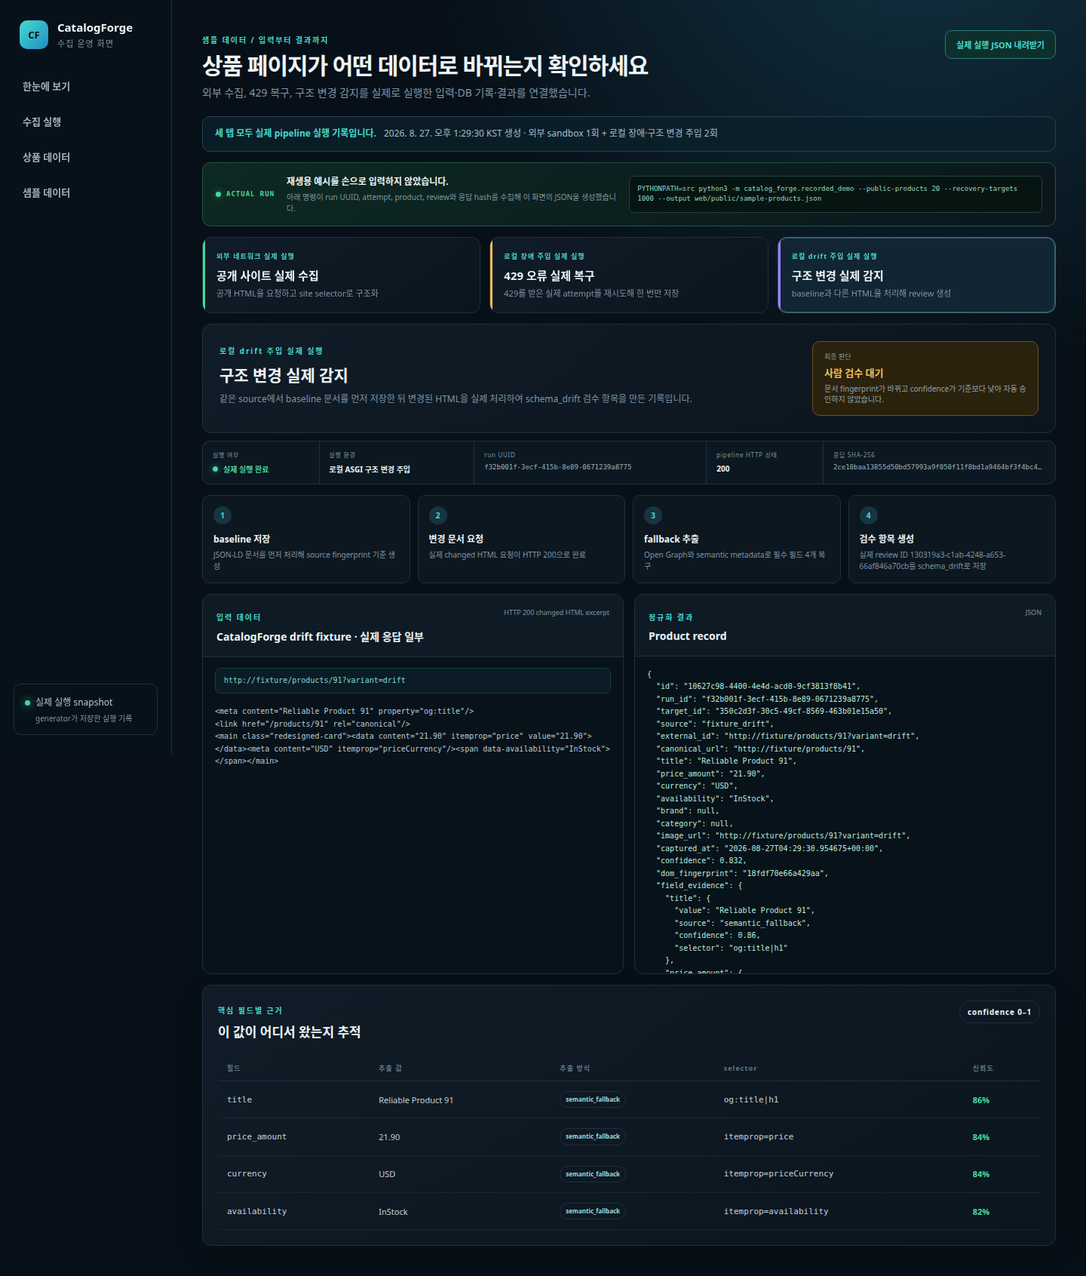
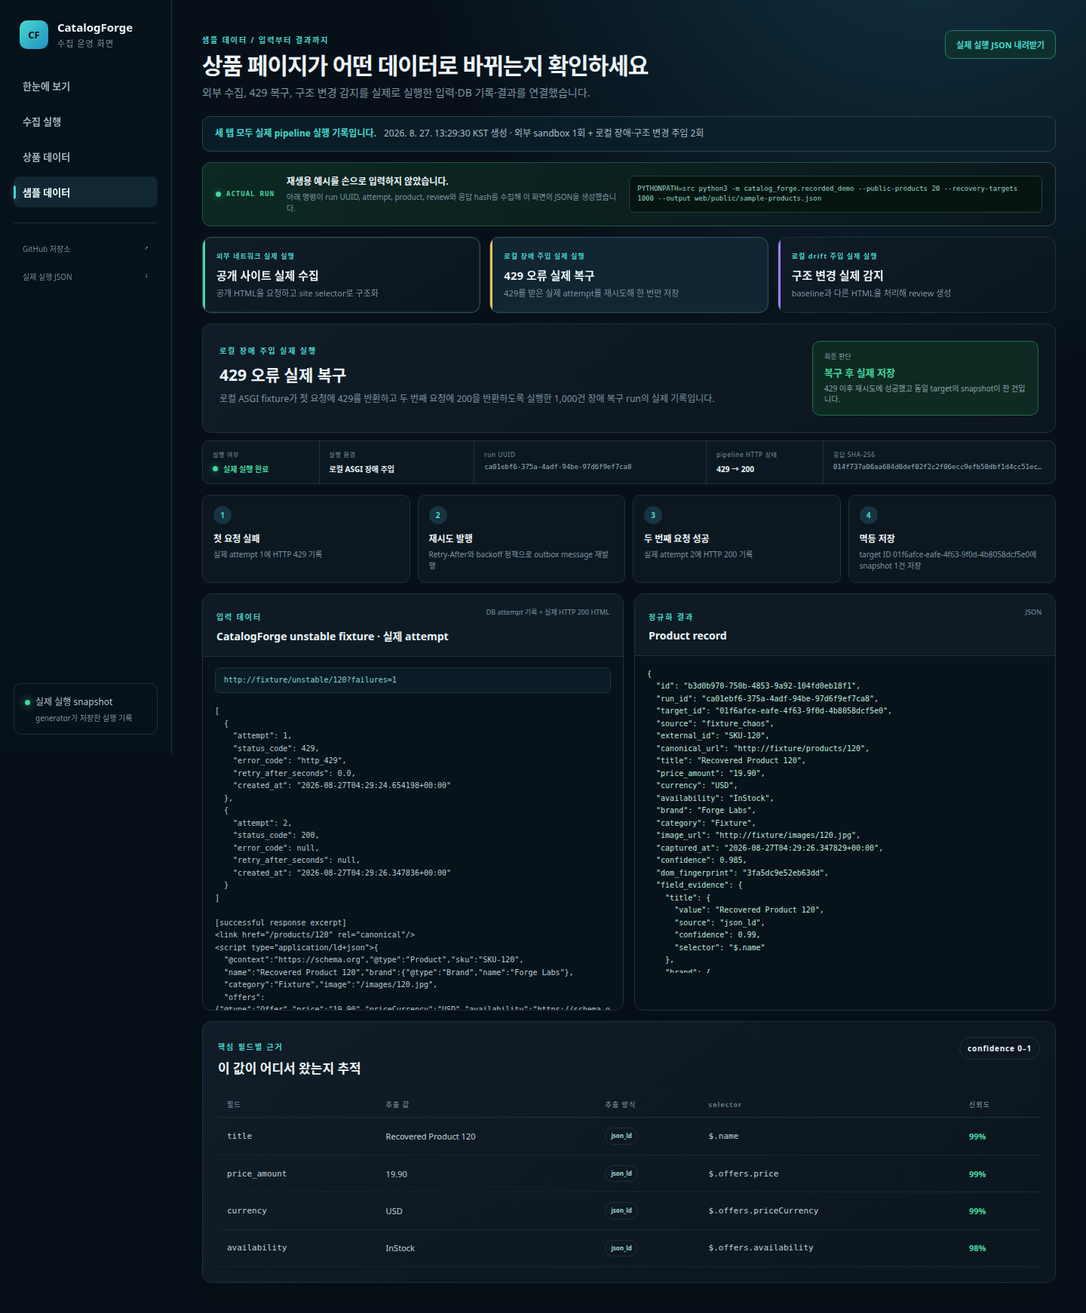
style: 포트폴리오 데모 최종 폴리싱

diff --git a/web/app/globals.css b/web/app/globals.css
@@ -6,3 +6,5 @@
 .download-link{display:inline-flex;align-items:center;justify-content:center;border:1px solid #287b73;border-radius:9px;padding:10px 14px;background:#0e302d;color:var(--cyan);font-size:11px;font-weight:800;white-space:nowrap}.download-link:hover{background:#14413d}.sample-tabs{display:grid;grid-template-columns:repeat(3,1fr);gap:12px;margin-bottom:14px}.sample-tab{position:relative;overflow:hidden;border:1px solid var(--line);border-radius:12px;padding:18px 18px 17px;background:linear-gradient(145deg,#101c27,#0b151e);color:var(--text);font:inherit;text-align:left;cursor:pointer}.sample-tab:before{content:"";position:absolute;inset:0 auto 0 0;width:3px;background:#41525f}.sample-tab.good:before{background:var(--green)}.sample-tab.warn:before{background:var(--amber)}.sample-tab.review:before{background:var(--violet)}.sample-tab:hover,.sample-tab.active{border-color:#3e6575;background:#122532}.sample-tab.active{box-shadow:0 0 0 1px #315d6d inset}.sample-tab span,.sample-tab strong,.sample-tab small{display:block}.sample-tab span{color:var(--cyan);font-size:9px;font-weight:800;letter-spacing:.12em}.sample-tab strong{margin:8px 0 6px;font-size:15px}.sample-tab small{color:var(--muted);font-size:11px;line-height:1.45}.sample-detail-head{display:flex;align-items:flex-start;justify-content:space-between;gap:28px;border:1px solid var(--line);border-radius:12px;padding:22px;background:linear-gradient(145deg,#101c27,#0b151e)}.sample-detail-head h2{margin:7px 0 8px;font-size:21px}.sample-detail-head p{max-width:760px;margin:0;color:var(--muted);font-size:12px;line-height:1.6}.decision{min-width:210px;max-width:300px;border:1px solid var(--line);border-radius:10px;padding:13px 15px}.decision span,.decision strong,.decision small{display:block}.decision span{color:var(--muted);font-size:9px}.decision strong{margin:5px 0;color:var(--green);font-size:13px}.decision small{color:#8fa3ae;font-size:10px;line-height:1.45}.decision.review{border-color:#6c5323;background:#2b220d}.decision.review strong{color:var(--amber)}.decision.stored{border-color:#236c53;background:#0d2b22}.sample-flow{display:grid;grid-template-columns:repeat(4,1fr);gap:10px;margin:14px 0}.sample-flow article{min-height:112px;border:1px solid var(--line);border-radius:10px;padding:14px;background:#0c1720}.sample-flow article>span{width:24px;height:24px;display:grid;place-items:center;border-radius:50%;background:#173442;color:var(--cyan);font-size:10px;font-weight:900}.sample-flow strong,.sample-flow small{display:block}.sample-flow strong{margin:10px 0 5px;font-size:12px}.sample-flow small{color:var(--muted);font-size:10px;line-height:1.5}.sample-grid{display:grid;grid-template-columns:1fr 1fr;gap:14px}.sample-code-panel{min-width:0;border:1px solid var(--line);border-radius:12px;overflow:hidden;background:#08121a}.code-panel-head{display:flex;align-items:flex-start;justify-content:space-between;gap:14px;padding:17px 18px;border-bottom:1px solid var(--line);background:#0e1b25}.code-panel-head h3{margin:6px 0 0;font-size:14px}.code-panel-head>span{color:var(--muted);font-size:9px}.sample-url{display:block;margin:14px 16px 0;padding:9px 11px;border:1px solid #1d3745;border-radius:7px;background:#0b1c26;color:#83d8d2;font-size:10px;line-height:1.45;overflow-wrap:anywhere}.sample-code-panel pre{min-height:320px;max-height:420px;margin:0;padding:16px;overflow:auto;color:#b8cad3;font:10px/1.65 ui-monospace,SFMono-Regular,Menlo,monospace;white-space:pre-wrap;overflow-wrap:anywhere}.sample-code-panel.output pre{color:#bcebd9}.evidence-panel{margin-top:14px}.evidence-method{display:inline-block;max-width:none;color:#9edbd6;text-align:left}.evidence-panel td strong{color:var(--green)}@media(max-width:900px){.sample-grid{grid-template-columns:1fr}.sample-code-panel pre{min-height:220px}}@media(max-width:680px){.sidebar nav a{padding:9px 5px;font-size:9px}.download-link{margin-top:18px}.sample-tabs{grid-template-columns:1fr}.sample-detail-head{display:block}.decision{max-width:none;margin-top:16px}.sample-flow{grid-template-columns:1fr 1fr}.sample-code-panel pre{min-height:180px;max-height:340px}}@media(max-width:420px){.sample-flow{grid-template-columns:1fr}}
 
 .product-card footer .fingerprint-label{margin-top:10px}.product-card code{display:block;overflow-wrap:anywhere}.run-title{font-size:14px!important;overflow-wrap:anywhere}.provenance{display:grid;grid-template-columns:auto minmax(240px,1fr) minmax(300px,1.25fr);align-items:center;gap:16px;margin-bottom:14px;padding:15px 17px;border:1px solid #245346;border-radius:11px;background:linear-gradient(135deg,#0d2922,#0a171d)}.actual-badge{display:inline-flex;align-items:center;gap:7px;color:var(--green);font:800 9px ui-monospace,monospace;letter-spacing:.11em;white-space:nowrap}.actual-badge i,.execution-proof i{width:7px;height:7px;border-radius:50%;background:var(--green);box-shadow:0 0 10px #45d89d99}.provenance strong,.provenance small{display:block}.provenance strong{font-size:12px}.provenance small{margin-top:5px;color:var(--muted);font-size:10px;line-height:1.5}.provenance code{padding:10px;border:1px solid #24413c;border-radius:7px;background:#071512;color:#96d5c4;font-size:9px;line-height:1.5;overflow-wrap:anywhere}.execution-proof{display:grid;grid-template-columns:.75fr 1fr 1.5fr .75fr 1.5fr;gap:1px;margin-top:10px;border:1px solid var(--line);border-radius:10px;overflow:hidden;background:var(--line)}.execution-proof>div{min-width:0;padding:12px 13px;background:#0b1821}.execution-proof span,.execution-proof strong,.execution-proof code{display:block}.execution-proof span{margin-bottom:6px;color:var(--muted);font-size:8px;letter-spacing:.09em}.execution-proof strong{font-size:10px}.execution-proof div:first-child strong{display:flex;align-items:center;gap:7px;color:var(--green)}.execution-proof code{color:#9bb0bb;font-size:9px;white-space:nowrap;overflow:hidden;text-overflow:ellipsis}@media(max-width:1050px){.provenance{grid-template-columns:auto 1fr}.provenance code{grid-column:1/-1}.execution-proof{grid-template-columns:repeat(2,1fr)}.execution-proof>div:last-child{grid-column:1/-1}}@media(max-width:680px){.provenance{grid-template-columns:1fr}.provenance code{grid-column:auto}.execution-proof{grid-template-columns:1fr}.execution-proof>div:last-child{grid-column:auto}}
+
+html{scroll-behavior:smooth}body{-webkit-font-smoothing:antialiased;text-rendering:optimizeLegibility}::selection{background:#46d9ce35;color:#fff}a,button{transition:border-color .18s ease,background-color .18s ease,color .18s ease,transform .18s ease}a:focus-visible,button:focus-visible{outline:2px solid var(--cyan);outline-offset:3px}.sidebar nav a{position:relative;display:flex;align-items:center}.sidebar nav a:after{content:"";position:absolute;left:0;width:3px;height:18px;border-radius:0 3px 3px 0;background:transparent}.sidebar nav a.active{background:#112733;color:#eefcfc}.sidebar nav a.active:after{background:var(--cyan);box-shadow:0 0 12px #46d9ce66}.sidebar-resources{display:grid;gap:6px;margin-top:20px;padding-top:18px;border-top:1px solid var(--line)}.sidebar-resources a{display:flex;justify-content:space-between;padding:8px 12px;color:#718b99;font-size:10px}.sidebar-resources a:hover{color:var(--cyan)}.sidebar-resources span{font-family:ui-monospace,monospace}.mode.recorded{color:var(--green);border-color:#236c53;background:#0d2b22}.top-actions{display:flex;align-items:center;justify-content:flex-end;gap:8px;flex-wrap:wrap}.action-link{display:inline-flex;align-items:center;gap:8px;padding:8px 11px;border:1px solid #285064;border-radius:999px;background:#0b1d28;color:#9ec4d3;font-size:10px;font-weight:800;white-space:nowrap}.action-link:hover{border-color:#3a8594;color:var(--cyan);transform:translateY(-1px)}.action-link span{color:var(--cyan)}.demo-note a{margin-left:auto;color:var(--cyan);font-size:10px;font-weight:800;white-space:nowrap}.demo-note a:hover{color:#8af3eb}.metric,.panel,.product-card,.sample-tab,.sample-detail-head{transition:border-color .18s ease,transform .18s ease,box-shadow .18s ease}.metric:hover,.panel:hover,.product-card:hover{border-color:#2a4656}.product-card:hover{transform:translateY(-2px);box-shadow:0 18px 48px #02090d66}.run-cell{max-width:190px;overflow:hidden;text-overflow:ellipsis;white-space:nowrap}.product-facts{display:grid;gap:8px;margin:18px 0 0;padding:12px 0;border-top:1px solid var(--line);border-bottom:1px solid var(--line)}.product-facts div{display:grid;grid-template-columns:75px minmax(0,1fr);gap:8px;align-items:center}.product-facts dt{color:var(--muted);font:9px ui-monospace,monospace}.product-facts dd{min-width:0;margin:0;color:#afc1ca;font-size:10px;white-space:nowrap;overflow:hidden;text-overflow:ellipsis}.product-facts dd.auto-stored{color:var(--green);font-weight:800}.product-facts dd.needs-review{color:var(--amber);font-weight:800}.product-card footer{border-top:0;margin-top:14px}.sample-tab:focus-visible{outline-offset:2px}@media(max-width:1050px){.sidebar-resources{display:none}}@media(max-width:680px){.top-actions{justify-content:flex-start;margin-top:18px}.mode,.topbar button{margin-top:0}.demo-note a{display:block;margin:8px 0 0}.action-link{padding:7px 10px}.product-card:hover{transform:none}}@media(prefers-reduced-motion:reduce){html{scroll-behavior:auto}*,*:before,*:after{transition:none!important;animation:none!important}}

diff --git a/web/app/page.tsx b/web/app/page.tsx
@@ -1,6 +1,7 @@
 "use client";
 
 import { useEffect, useMemo, useState } from "react";
+import Link from "next/link";
 import {
   displayConnector,
   displayStatus,
@@ -12,7 +13,7 @@ import {
   type Run,
 } from "./data";
 
-const apiBase = process.env.NEXT_PUBLIC_API_BASE_URL ?? "http://localhost:8100";
+const apiBase = process.env.NEXT_PUBLIC_API_BASE_URL;
 
 function Metric({ label, value, note, tone = "" }: { label: string; value: string; note: string; tone?: string }) {
   return (
@@ -29,6 +30,7 @@ export default function Overview() {
   const [mode, setMode] = useState<"replay" | "live">("replay");
 
   useEffect(() => {
+    if (!apiBase) return;
     const controller = new AbortController();
     fetch(apiBase + "/api/v1/crawl-runs?limit=20", { signal: controller.signal })
       .then((response) => response.ok ? response.json() : Promise.reject())
@@ -57,11 +59,15 @@ export default function Overview() {
           <h1>상품 데이터 수집 상태를 한눈에</h1>
           <p>수집부터 구조화, 장애 복구, 사람 검수까지 한 화면에서 추적합니다.</p>
         </div>
-        <span className={"mode " + mode}>{mode === "live" ? "실시간 API" : "실제 실행 기록"}</span>
+        <div className="top-actions">
+          <span className={"mode " + (mode === "live" ? "live" : "recorded")}>{mode === "live" ? "실시간 API" : "실제 실행 기록"}</span>
+          <Link className="action-link" href="/samples/">실행 증거 보기 <span>→</span></Link>
+        </div>
       </header>
       <section className="demo-note" aria-label="데모 안내">
         <strong>실제 실행으로 만든 읽기 전용 snapshot입니다.</strong>
         <span>{recordedAt} KST에 외부 sandbox 수집과 로컬 장애 주입 pipeline을 실행해 기록했습니다.</span>
+        <Link href="/samples/">입력부터 결과까지 보기 →</Link>
       </section>
       <section className="metrics">
         <Metric label="최종 수집 성공률" value={success + "%"} note={"대상 " + completed.toLocaleString() + "건 실제 처리"} tone="good" />
@@ -88,7 +94,7 @@ export default function Overview() {
           <ol className="timeline">{replayTimeline.map((item, index) => <li key={item.time}><span className={index === replayTimeline.length - 1 ? "done" : ""} /><time>{item.time}</time><div><strong>{item.event}</strong><small>{item.detail}</small></div></li>)}</ol>
         </section>
       </div>
-      <section className="panel runs-panel"><div className="panel-head"><div><span className="eyebrow">최근 활동</span><h2>수집 실행 기록</h2></div><a href="./runs/">전체 실행 보기 →</a></div>
+      <section className="panel runs-panel"><div className="panel-head"><div><span className="eyebrow">최근 활동</span><h2>수집 실행 기록</h2></div><Link href="/runs/">전체 실행 보기 →</Link></div>
         <div className="table-wrap"><table><thead><tr><th>실행 ID</th><th>수집처</th><th>상태</th><th>성공</th><th>재시도 중</th><th>실패</th></tr></thead><tbody>{runs.map(run => <tr key={run.id}><td className="mono">{run.id.slice(0,18)}</td><td>{displayConnector(run.connector)}</td><td><span className={"status " + run.status}>{displayStatus(run.status)}</span></td><td>{run.succeeded.toLocaleString()}</td><td>{run.retrying}</td><td>{run.failed}</td></tr>)}</tbody></table></div>
       </section>
     </div>

diff --git a/web/app/layout.tsx b/web/app/layout.tsx
@@ -1,18 +1,28 @@
-import type { Metadata } from "next";
+import type { Metadata, Viewport } from "next";
 import Link from "next/link";
 import "./globals.css";
+import NavLinks from "./nav-links";
 
 export const metadata: Metadata = {
-  title: "CatalogForge | 상품 데이터 수집 운영",
-  description: "장애 복구와 구조 변경 감지를 갖춘 상품 데이터 수집 운영 화면",
+  metadataBase: new URL("https://zodia8393.github.io"),
+  title: "CatalogForge | 복원력 있는 상품 데이터 수집",
+  description: "1,022건 실제 실행으로 증명한 웹 수집, 429 복구, 구조 변경 감지 파이프라인",
+  openGraph: {
+    title: "CatalogForge | 복원력 있는 상품 데이터 수집",
+    description: "실제 run UUID와 attempt 근거로 확인하는 상품 데이터 수집 파이프라인",
+    type: "website",
+    url: "https://zodia8393.github.io/catalog-forge/",
+  },
 };
 
-const nav = [
-  ["한눈에 보기", "/"],
-  ["수집 실행", "/runs/"],
-  ["상품 데이터", "/products/"],
-  ["샘플 데이터", "/samples/"],
-];
+export const viewport: Viewport = {
+  colorScheme: "dark",
+  themeColor: "#071018",
+};
+
+const sampleDataHref = process.env.GITHUB_PAGES === "true"
+  ? "/catalog-forge/sample-products.json"
+  : "/sample-products.json";
 
 export default function RootLayout({ children }: Readonly<{ children: React.ReactNode }>) {
   return (
@@ -24,9 +34,11 @@ export default function RootLayout({ children }: Readonly<{ children: React.Reac
               <span className="brand-mark">CF</span>
               <span><strong>CatalogForge</strong><small>수집 운영 화면</small></span>
             </Link>
-            <nav aria-label="주요 메뉴">
-              {nav.map(([label, href]) => <Link key={href} href={href}>{label}</Link>)}
-            </nav>
+            <NavLinks />
+            <div className="sidebar-resources" aria-label="프로젝트 링크">
+              <a href="https://github.com/zodia8393/catalog-forge" rel="noreferrer" target="_blank">GitHub 저장소 <span>↗</span></a>
+              <a download href={sampleDataHref}>실제 실행 JSON <span>↓</span></a>
+            </div>
             <div className="sidebar-foot">
               <span className="pulse" />
               실제 실행 snapshot

diff --git a/web/app/runs/page.tsx b/web/app/runs/page.tsx
@@ -1,9 +1,13 @@
+import Link from "next/link";
 import {
   displayConnector,
   displayStatus,
+  formatDuration,
+  formatKst,
   recordedAt,
   replayRuns,
   replayTimeline,
+  runTargetCount,
 } from "../data";
 
 export default function RunsPage() {
@@ -15,7 +19,7 @@ export default function RunsPage() {
           <h1>실패를 숨기지 않고 상태로 관리합니다</h1>
           <p>각 수집 대상이 대기, 처리, 재시도, 성공, 실패 중 어디에 있는지 기록합니다.</p>
         </div>
-        <span className="mode replay">실제 실행 snapshot</span>
+        <div className="top-actions"><span className="mode recorded">실제 실행 snapshot</span><Link className="action-link" href="/samples/">attempt 근거 보기 <span>→</span></Link></div>
       </header>
       <section className="demo-note" aria-label="표 읽는 방법">
         <strong>{recordedAt} KST 실제 실행 결과</strong>
@@ -24,8 +28,8 @@ export default function RunsPage() {
       <section className="panel">
         <div className="table-wrap">
           <table>
-            <thead><tr><th>실행 ID</th><th>수집처</th><th>상태</th><th>대기</th><th>처리 중</th><th>재시도 중</th><th>성공</th><th>실패</th><th>차단</th></tr></thead>
-            <tbody>{replayRuns.map(run => <tr key={run.id}><td className="mono">{run.id}</td><td>{displayConnector(run.connector)}</td><td><span className={"status " + run.status}>{displayStatus(run.status)}</span></td><td>{run.queued}</td><td>{run.running}</td><td>{run.retrying}</td><td>{run.succeeded}</td><td>{run.failed}</td><td>{run.blocked}</td></tr>)}</tbody>
+            <thead><tr><th>실행 ID</th><th>수집처</th><th>시작 (KST)</th><th>소요</th><th>상태</th><th>대상</th><th>성공</th><th>실패·차단</th></tr></thead>
+            <tbody>{replayRuns.map(run => <tr key={run.id}><td className="mono run-cell" title={run.id}>{run.id}</td><td>{displayConnector(run.connector)}</td><td>{formatKst(run.created_at)}</td><td>{formatDuration(run)}</td><td><span className={"status " + run.status}>{displayStatus(run.status)}</span></td><td>{runTargetCount(run).toLocaleString()}</td><td>{run.succeeded.toLocaleString()}</td><td>{run.failed + run.blocked}</td></tr>)}</tbody>
           </table>
         </div>
       </section>

diff --git a/web/app/products/page.tsx b/web/app/products/page.tsx
@@ -1,6 +1,8 @@
+import Link from "next/link";
 import {
   displayAvailability,
   displayConnector,
+  formatKst,
   recordedMetrics,
   replayProducts,
 } from "../data";
@@ -17,7 +19,7 @@ export default function ProductsPage() {
           <h1>상품 값마다 근거와 신뢰도를 남깁니다</h1>
           <p>추출한 값뿐 아니라 원본 수집처, 신뢰도, 문서 구조 지문을 함께 보존합니다.</p>
         </div>
-        <span className="mode replay">실제 저장 기록 {replayProducts.length}건</span>
+        <div className="top-actions"><span className="mode recorded">실제 저장 기록 {replayProducts.length}건</span><Link className="action-link" href="/samples/">추출 근거 보기 <span>→</span></Link></div>
       </header>
       <section className="demo-note" aria-label="검수 안내">
         <strong>실제 pipeline DB에서 선택한 product snapshot입니다.</strong>
@@ -39,7 +41,11 @@ export default function ProductsPage() {
             <h2>{product.title}</h2>
             <strong className="price">{product.currency} {product.price_amount}</strong>
             <p className="availability">재고 상태 · {displayAvailability(product.availability)}</p>
-            <footer><span>실제 product UUID</span><code>{product.id}</code><span className="fingerprint-label">문서 구조 지문</span><code>{product.dom_fingerprint}</code></footer>
+            <dl className="product-facts">
+              <div><dt>external_id</dt><dd title={product.external_id}>{product.external_id}</dd></div>
+              <div><dt>품질 판정</dt><dd className={product.review_required ? "needs-review" : "auto-stored"}>{product.review_required ? "사람 검수 대기" : "자동 저장 완료"}</dd></div>
+            </dl>
+            <footer><span>실제 product UUID</span><code>{product.id}</code><span className="fingerprint-label">문서 구조 지문 · {formatKst(product.captured_at)} KST</span><code>{product.dom_fingerprint}</code></footer>
           </article>
         ))}
       </section>

diff --git a/web/app/data.ts b/web/app/data.ts
@@ -5,6 +5,7 @@ export type Run = {
   connector: string;
   status: string;
   created_at: string;
+  updated_at: string;
   queued: number;
   running: number;
   retrying: number;
@@ -17,6 +18,9 @@ export type Product = {
   id: string;
   title: string;
   source: string;
+  external_id: string;
+  canonical_url: string;
+  captured_at: string;
   price_amount: string;
   currency: string;
   availability: string;
@@ -58,11 +62,23 @@ export function displayAvailability(availability: string) {
   return availabilityLabels[availability] ?? availability;
 }
 
-export const recordedAt = new Intl.DateTimeFormat("ko-KR", {
-  dateStyle: "medium",
-  timeStyle: "medium",
-  timeZone: "Asia/Seoul",
-}).format(new Date(recordedDataset.generated_at));
+export function formatKst(value: string) {
+  const kst = new Date(new Date(value).getTime() + 9 * 60 * 60 * 1000);
+  const pad = (part: number) => String(part).padStart(2, "0");
+  return `${kst.getUTCFullYear()}. ${kst.getUTCMonth() + 1}. ${kst.getUTCDate()}. ${pad(kst.getUTCHours())}:${pad(kst.getUTCMinutes())}:${pad(kst.getUTCSeconds())}`;
+}
+
+export function runTargetCount(run: Run) {
+  return run.queued + run.running + run.retrying + run.succeeded + run.failed + run.blocked;
+}
+
+export function formatDuration(run: Run) {
+  const seconds = Math.max(0, new Date(run.updated_at).getTime() - new Date(run.created_at).getTime()) / 1000;
+  if (seconds < .1) return "<0.1초";
+  return seconds < 60 ? `${seconds.toFixed(1)}초` : `${(seconds / 60).toFixed(1)}분`;
+}
+
+export const recordedAt = formatKst(recordedDataset.generated_at);
 export const recordedCommand = recordedDataset.generator_command;
 export const recordedMetrics = recordedDataset.metrics;
 export const recordedSources = recordedDataset.sources;

diff --git a/web/app/nav-links.tsx b/web/app/nav-links.tsx
@@ -1,0 +1,29 @@
+"use client";
+
+import Link from "next/link";
+import { usePathname } from "next/navigation";
+
+const navItems = [
+  ["한눈에 보기", "/"],
+  ["수집 실행", "/runs/"],
+  ["상품 데이터", "/products/"],
+  ["샘플 데이터", "/samples/"],
+] as const;
+
+export default function NavLinks() {
+  const pathname = (usePathname() || "/").replace(/^\/catalog-forge/, "") || "/";
+
+  return (
+    <nav aria-label="주요 메뉴">
+      {navItems.map(([label, href]) => {
+        const route = href === "/" ? href : href.slice(0, -1);
+        const active = route === "/" ? pathname === "/" : pathname === route || pathname.startsWith(`${route}/`);
+        return (
+          <Link aria-current={active ? "page" : undefined} className={active ? "active" : ""} href={href} key={href}>
+            <span>{label}</span>
+          </Link>
+        );
+      })}
+    </nav>
+  );
+}

diff --git a/web/app/samples/page.tsx b/web/app/samples/page.tsx
@@ -42,6 +42,7 @@ export default function SamplesPage() {
             aria-controls="sample-detail"
             aria-selected={item.id === sample.id}
             className={"sample-tab " + item.tone + (item.id === sample.id ? " active" : "")}
+            id={`sample-tab-${item.id}`}
             key={item.id}
             onClick={() => setSelectedId(item.id)}
             role="tab"
@@ -54,7 +55,7 @@ export default function SamplesPage() {
         ))}
       </div>
 
-      <section className="sample-detail" id="sample-detail" role="tabpanel">
+      <section aria-labelledby={`sample-tab-${sample.id}`} className="sample-detail" id="sample-detail" role="tabpanel">
         <div className="sample-detail-head">
           <div>
             <span className="eyebrow">{sample.kind}</span>

diff --git a/README.md b/README.md
@@ -3,7 +3,7 @@
 [![CI](https://github.com/zodia8393/catalog-forge/actions/workflows/ci.yml/badge.svg)](https://github.com/zodia8393/catalog-forge/actions/workflows/ci.yml)
 [![Pages](https://github.com/zodia8393/catalog-forge/actions/workflows/pages.yml/badge.svg)](https://github.com/zodia8393/catalog-forge/actions/workflows/pages.yml)
 
-**[한국어 라이브 데모 보기](https://zodia8393.github.io/catalog-forge/)**
+**[한국어 라이브 데모](https://zodia8393.github.io/catalog-forge/)** · [실제 실행 JSON](https://zodia8393.github.io/catalog-forge/sample-products.json) · [시스템 설계](docs/system_design.md)
 
 여러 쇼핑몰의 상품 페이지를 동시에 수집하고, 서로 다른 문서 구조를 하나의 상품 형식으로 바꾸는 **웹 데이터 수집·운영 시스템**입니다. 일시적인 요청 실패, 작업자 중단, 사이트 구조 변경이 발생해도 데이터가 유실되거나 잘못 저장되지 않도록 설계했습니다.
 
@@ -24,6 +24,12 @@
 ~~~
 
 CatalogForge의 핵심은 “많이 긁는 크롤러”가 아니라 **실패를 복구하고, 데이터 품질을 설명하며, 외부 변화에 안전하게 대응하는 수집 파이프라인**입니다.
+
+## 지원 검토자를 위한 90초 동선
+
+1. [한눈에 보기](https://zodia8393.github.io/catalog-forge/)에서 1,022건 성공, 429 복구, 유실·중복 결과를 확인합니다.
+2. [샘플 데이터](https://zodia8393.github.io/catalog-forge/samples/)에서 공개 수집·retry·schema drift의 실제 입력과 attempt 근거를 확인합니다.
+3. 아래 검증 표와 [재현 명령](#직접-검증)으로 같은 결과를 어떻게 다시 만드는지 확인합니다.
 
 ## 검증된 결과
 
